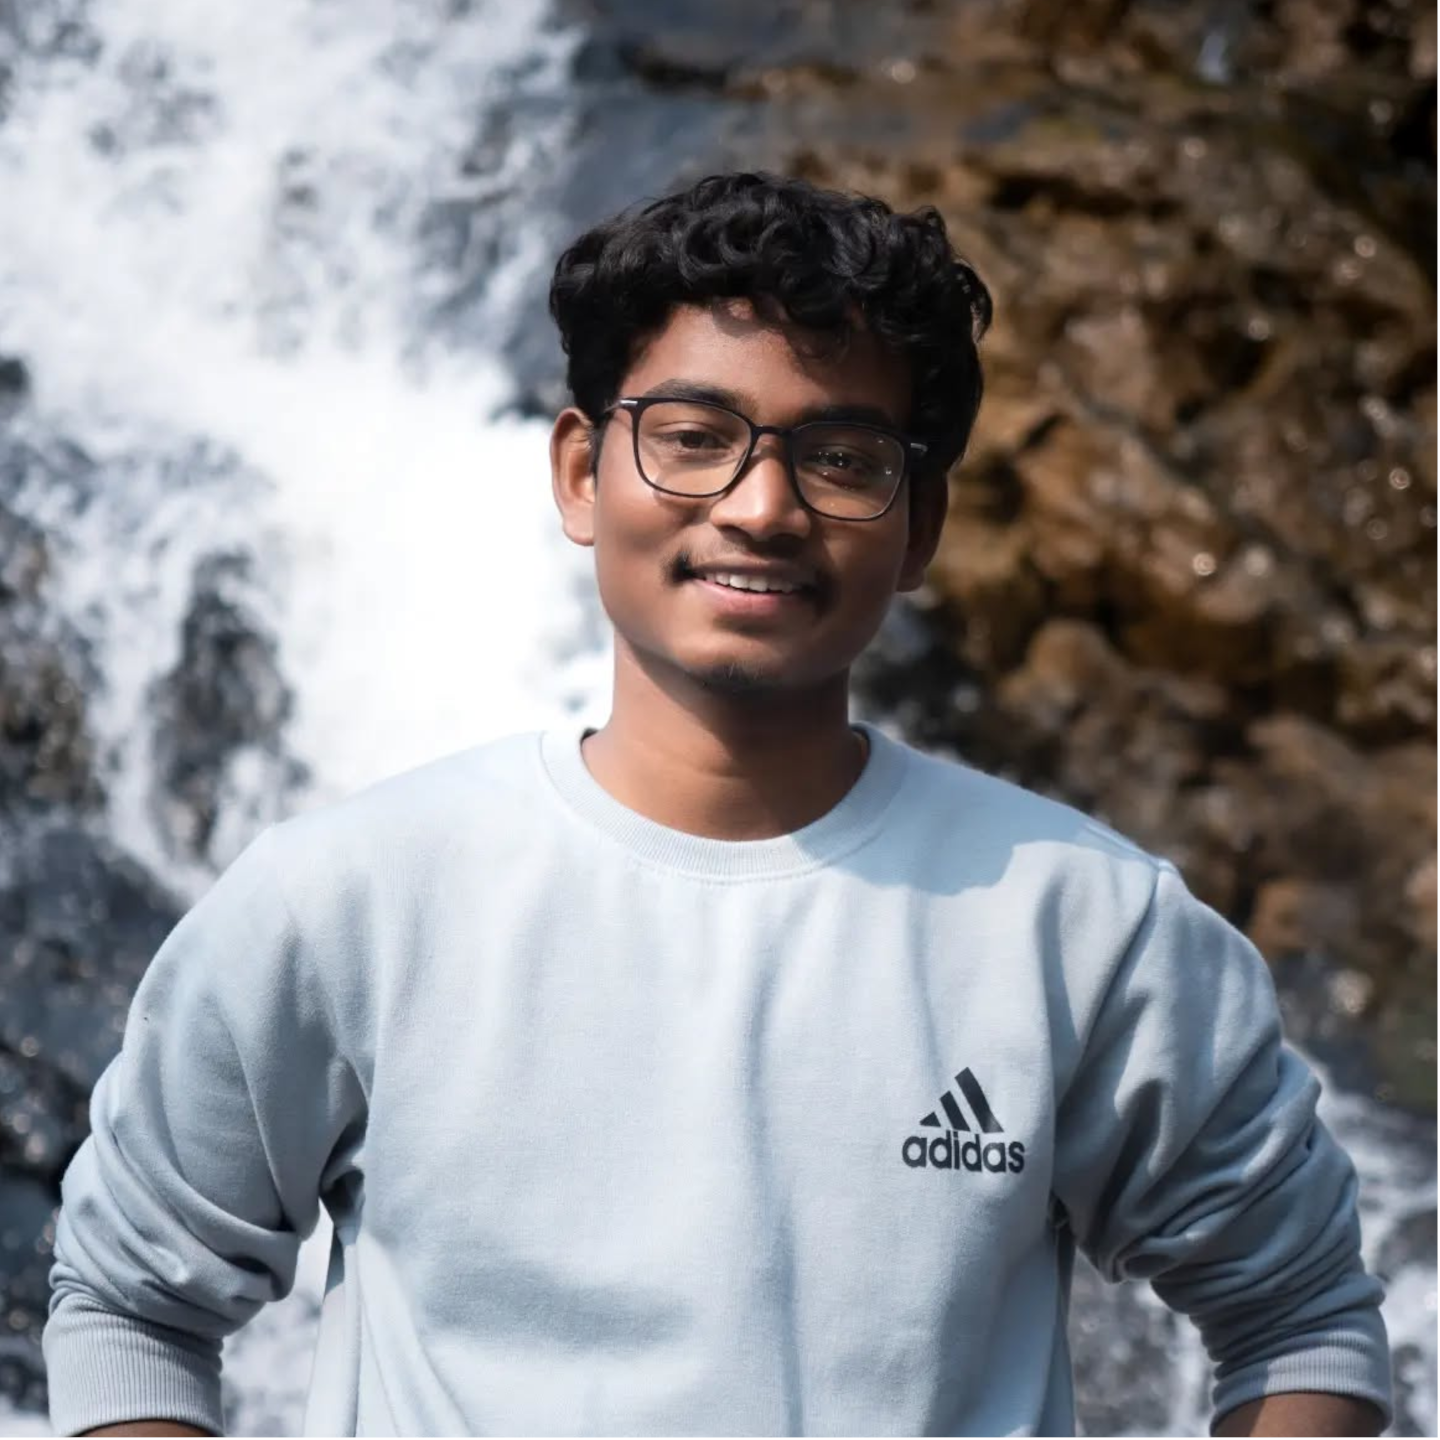
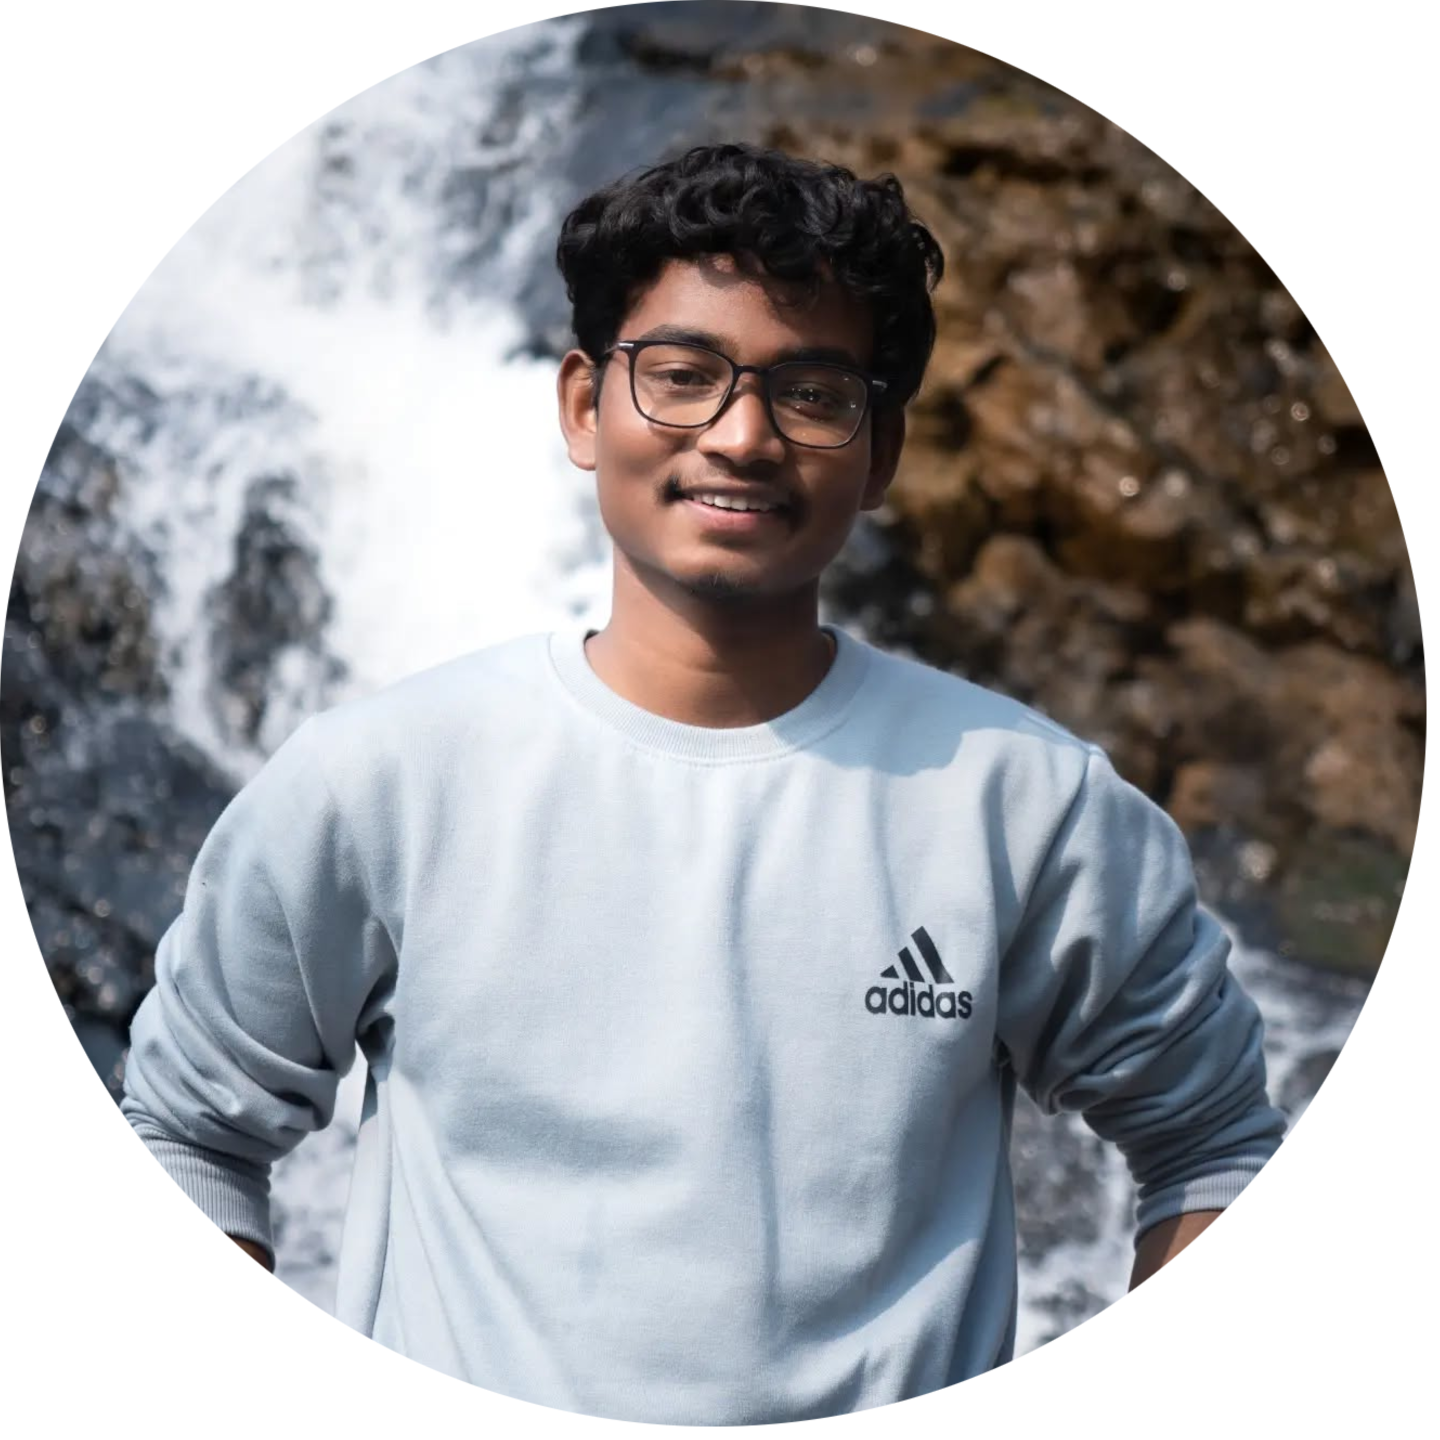
changed dp to circle

diff --git a/src/components/Intro.tsx b/src/components/Intro.tsx
@@ -1,10 +1,14 @@
-const Intro = () => {
+import { useState } from 'react';
+
+
+const Intro: React.FC = () => {
+  const [status, setStatus] = useState<string>("Software Enginner")
   return (
     <div>
         <div className='flex flex-col gap-7 px-4 '>
             <div>
                 <p className='text-lg'>Ankit</p>
-                <p className='text-zinc-600 dark:text-zinc-400'>Software Enginner</p>
+                <p className='text-zinc-600 dark:text-zinc-400'>{status}</p>
             </div>
         <p className='text-zinc-600 dark:text-zinc-300'>Break things and fixing them back. Software Enginner, Designer and lot more.</p>
     </div>
